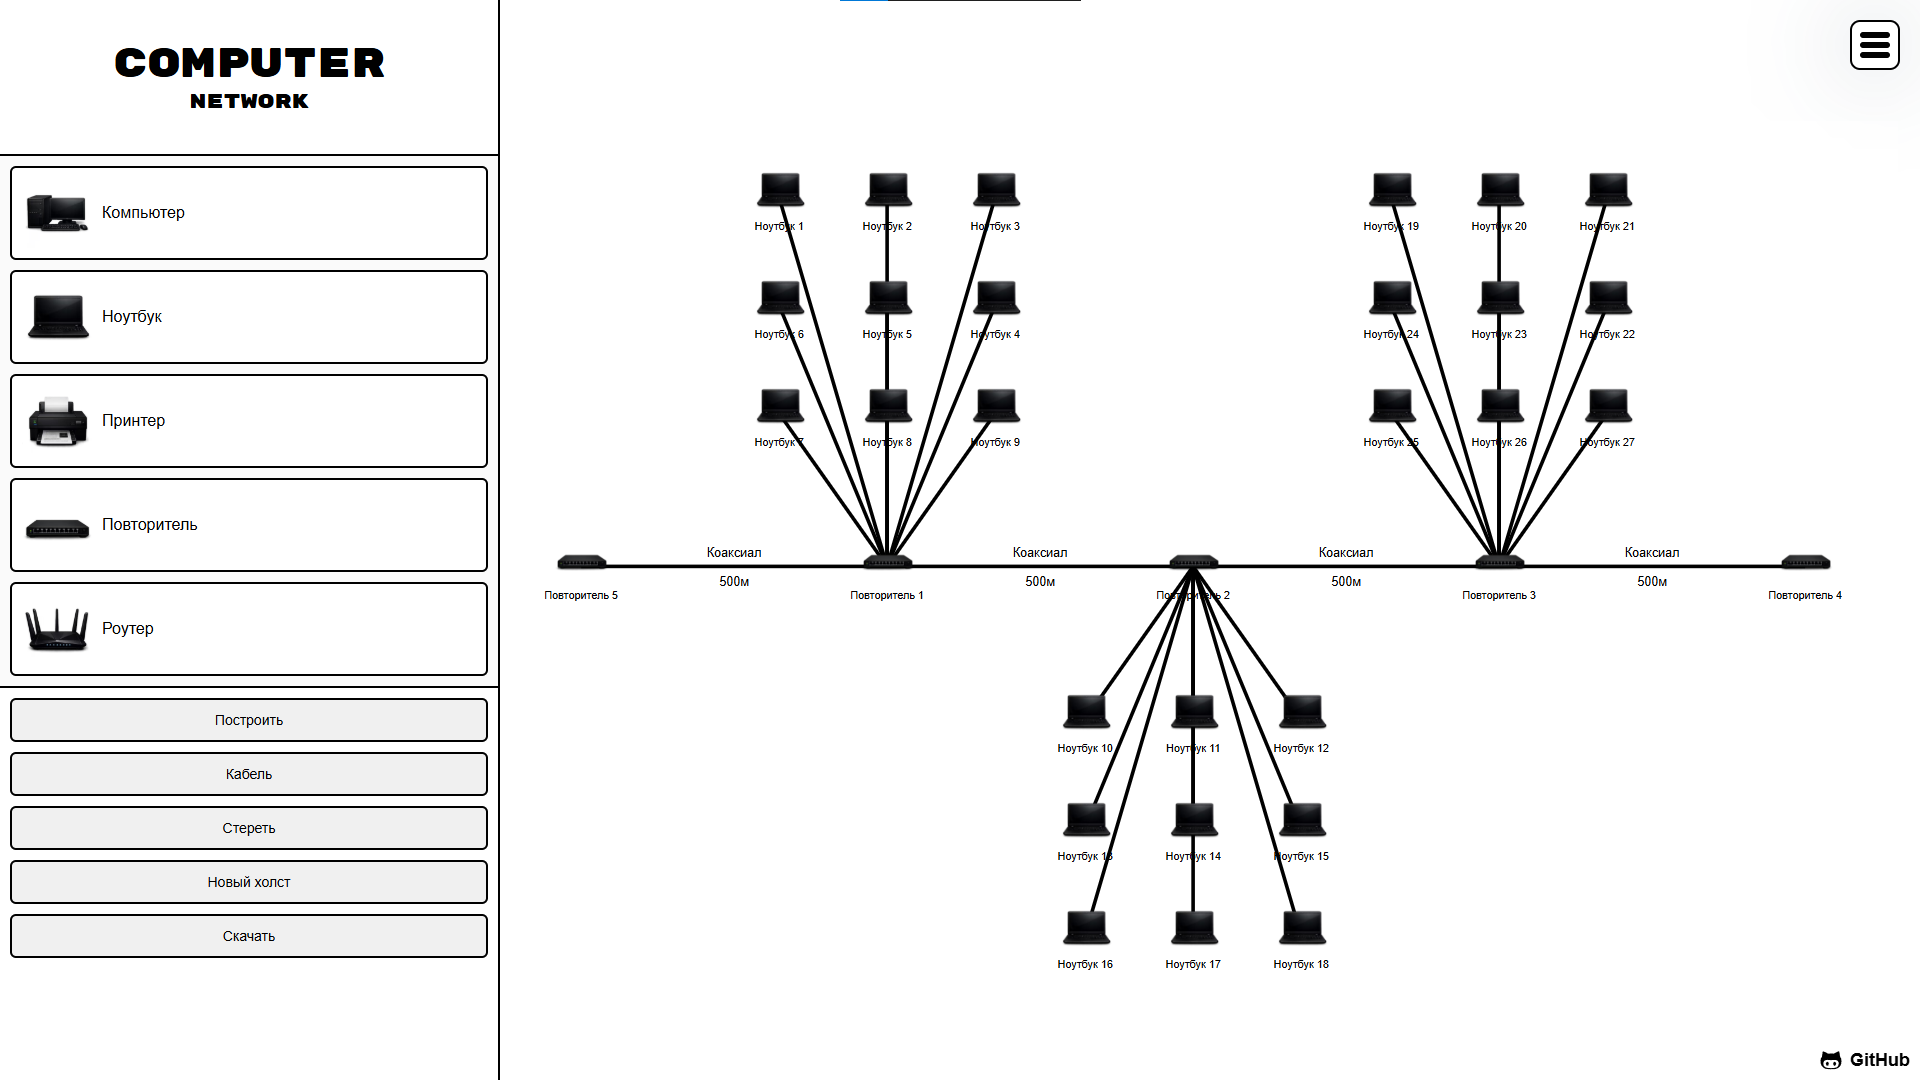
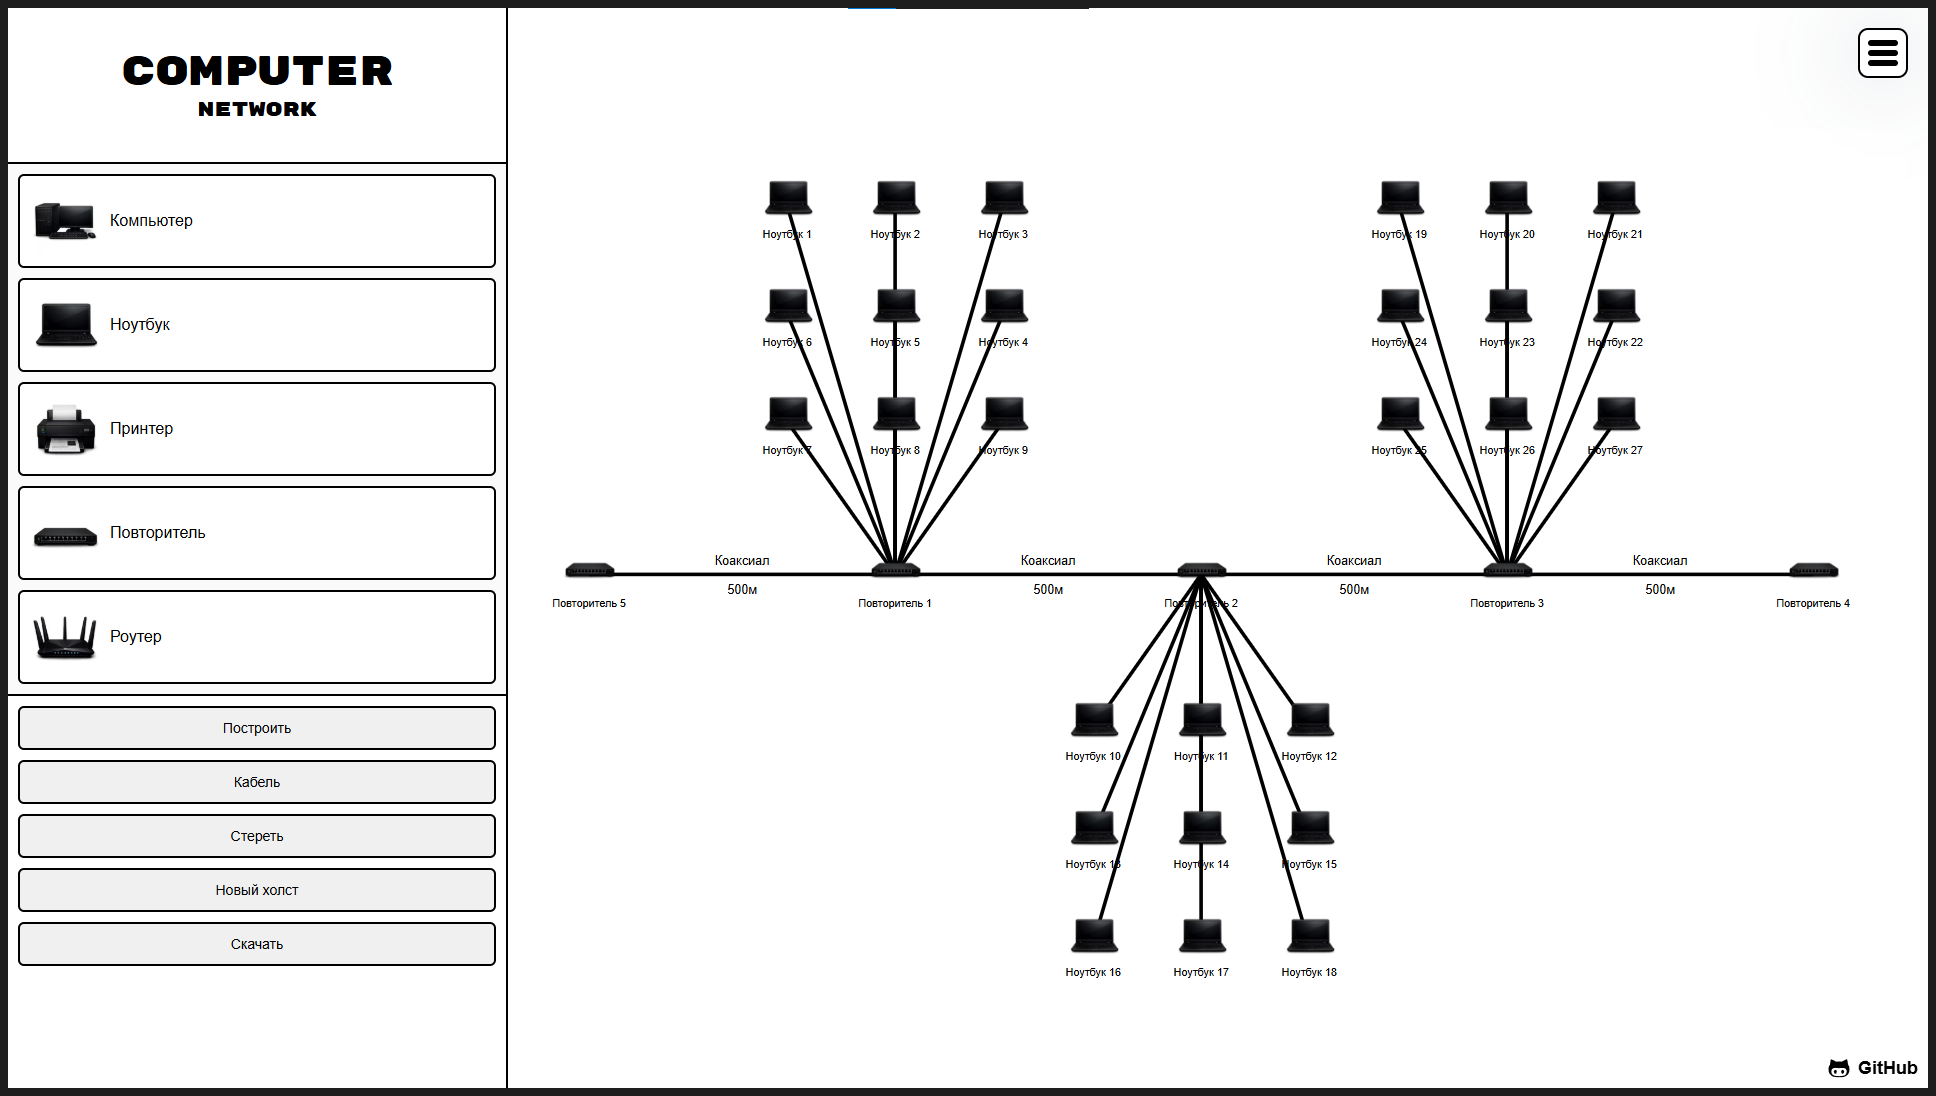
Добавлена англоязычная версия README, рамка для скриншотов
- Добавлен раздел на английском в README рядом с русским
- Добавлено краткое описание структуры проекта
- Добавлена тёмная рамка на скриншоты в README
- Index.html переименован в index.html

diff --git a/README.md b/README.md
@@ -1,7 +1,15 @@
 <img src="./logo.gif" alt="ComputerNetwork" width="600">
 
+**[Русский](#русский) | [English](#english)**
+
+---
+
+## Русский
+
 Браузерный конструктор компьютерных сетей на чистом JavaScript. Расставляйте устройства, соединяйте их кабелями и собирайте свою сеть прямо в браузере.
 Проект сделан в процессе изучения JavaScript.
+
+> Интерфейс приложения на русском языке.
 
 ![Главный экран](./screenshots/main.png)
 
@@ -9,55 +17,157 @@
 
 ![Настройки](./screenshots/settings.png)
 
-# Строить онлайн
+### Строить онлайн
 
 Попробовать браузерную версию можно здесь:
 
 🌐 [Начать строить](https://khumorov.dev/ComputerNetwork)
 
-# Возможности
+### Возможности
 
 1. Перетаскивание устройств (компьютер, ноутбук, принтер, повторитель, роутер) на рабочее поле
-
 2. Соединение устройств кабелями
-
 3. Можно описать кабель
-
 4. Сохранение и загрузка сети (localStorage)
-
 5. Настройки: звук, анимации, подписи иконок
 
-# Технологии
+### Технологии
 
 - JavaScript (ES Modules)
 - HTML5
 - CSS3
 - Vite
 
-# Запуск
+### Структура проекта
+
+- `main.js`     - точка входа, инициализация приложения
+- `world.js`    - рабочее поле и логика размещения устройств
+- `elements.js` - определения устройств (компьютер, роутер, принтер и т.д.)
+- `wires.js`    - логика соединения устройств кабелями
+- `drag.js`     - перетаскивание элементов на рабочем поле
+- `storage.js`  - сохранение и загрузка сети через localStorage
+- `config.js`   - конфигурация приложения
+- `helpers.js`  - вспомогательные функции
+- `download.js` - экспорт/скачивание данных сети
+- `style.css`   - стили интерфейса
+
+### Запуск
 
 Установите зависимости:
 
+```
 npm install
+```
 
 Запустите dev-сервер:
 
+```
 npm run dev
+```
 
 После запуска проект будет доступен по адресу:
 
+```
 http://127.0.0.1:5173
+```
 
 Адрес и порт можно изменить в конфигурации Vite.
 
-# Сборка
+### Сборка
 
 Для создания продакшен-сборки:
 
+```
 npm run build
+```
 
-После этого готовая сборка будет находиться в директории "dist".
+После этого готовая сборка будет находиться в директории `dist`.
 
-# Лицензия
+### Лицензия
 
 Проект распространяется под лицензией [MIT](./LICENSE).
+
+---
+
+## English
+
+A browser-based computer network builder written in vanilla JavaScript. Place devices, connect them with cables, and build your network right in the browser.
+Built as a learning project while studying JavaScript.
+
+> the app's UI itself is in Russian.
+
+![Main screen](./screenshots/main.png)
+
+![Cable label panel](./screenshots/wireTitlePanel.png)
+
+![Settings](./screenshots/settings.png)
+
+### Try it online
+
+You can try the browser version here:
+
+🌐 [Start building](https://khumorov.dev/ComputerNetwork)
+
+### Features
+
+1. Drag-and-drop devices (computer, laptop, printer, repeater, router) onto the canvas
+2. Connect devices with cables
+3. Label cables
+4. Save and load networks (localStorage)
+5. Settings: sound, animations, icon labels
+
+### Tech stack
+
+- JavaScript (ES Modules)
+- HTML5
+- CSS3
+- Vite
+
+### Project structure
+
+- `main.js`     - entry point, app initialization
+- `world.js`    - canvas and device-placement logic
+- `elements.js` - device definitions (computer, router, printer, etc.)
+- `wires.js`    - cable-connection logic
+- `drag.js`     - drag-and-drop for canvas elements
+- `storage.js`  - saving/loading the network via localStorage
+- `config.js`   - app configuration
+- `helpers.js`  - utility functions
+- `download.js` - exporting/downloading network data
+- `style.css`   - UI styles
+
+### Getting started
+
+Install dependencies:
+
+```
+npm install
+```
+
+Start the dev server:
+
+```
+npm run dev
+```
+
+Once running, the project will be available at:
+
+```
+http://127.0.0.1:5173
+```
+
+The host and port can be changed in the Vite config.
+
+### Build
+
+To create a production build:
+
+```
+npm run build
+```
+
+The finished build will be in the `dist` directory.
+
+### License
+
+This project is distributed under the [MIT](./LICENSE) license.
